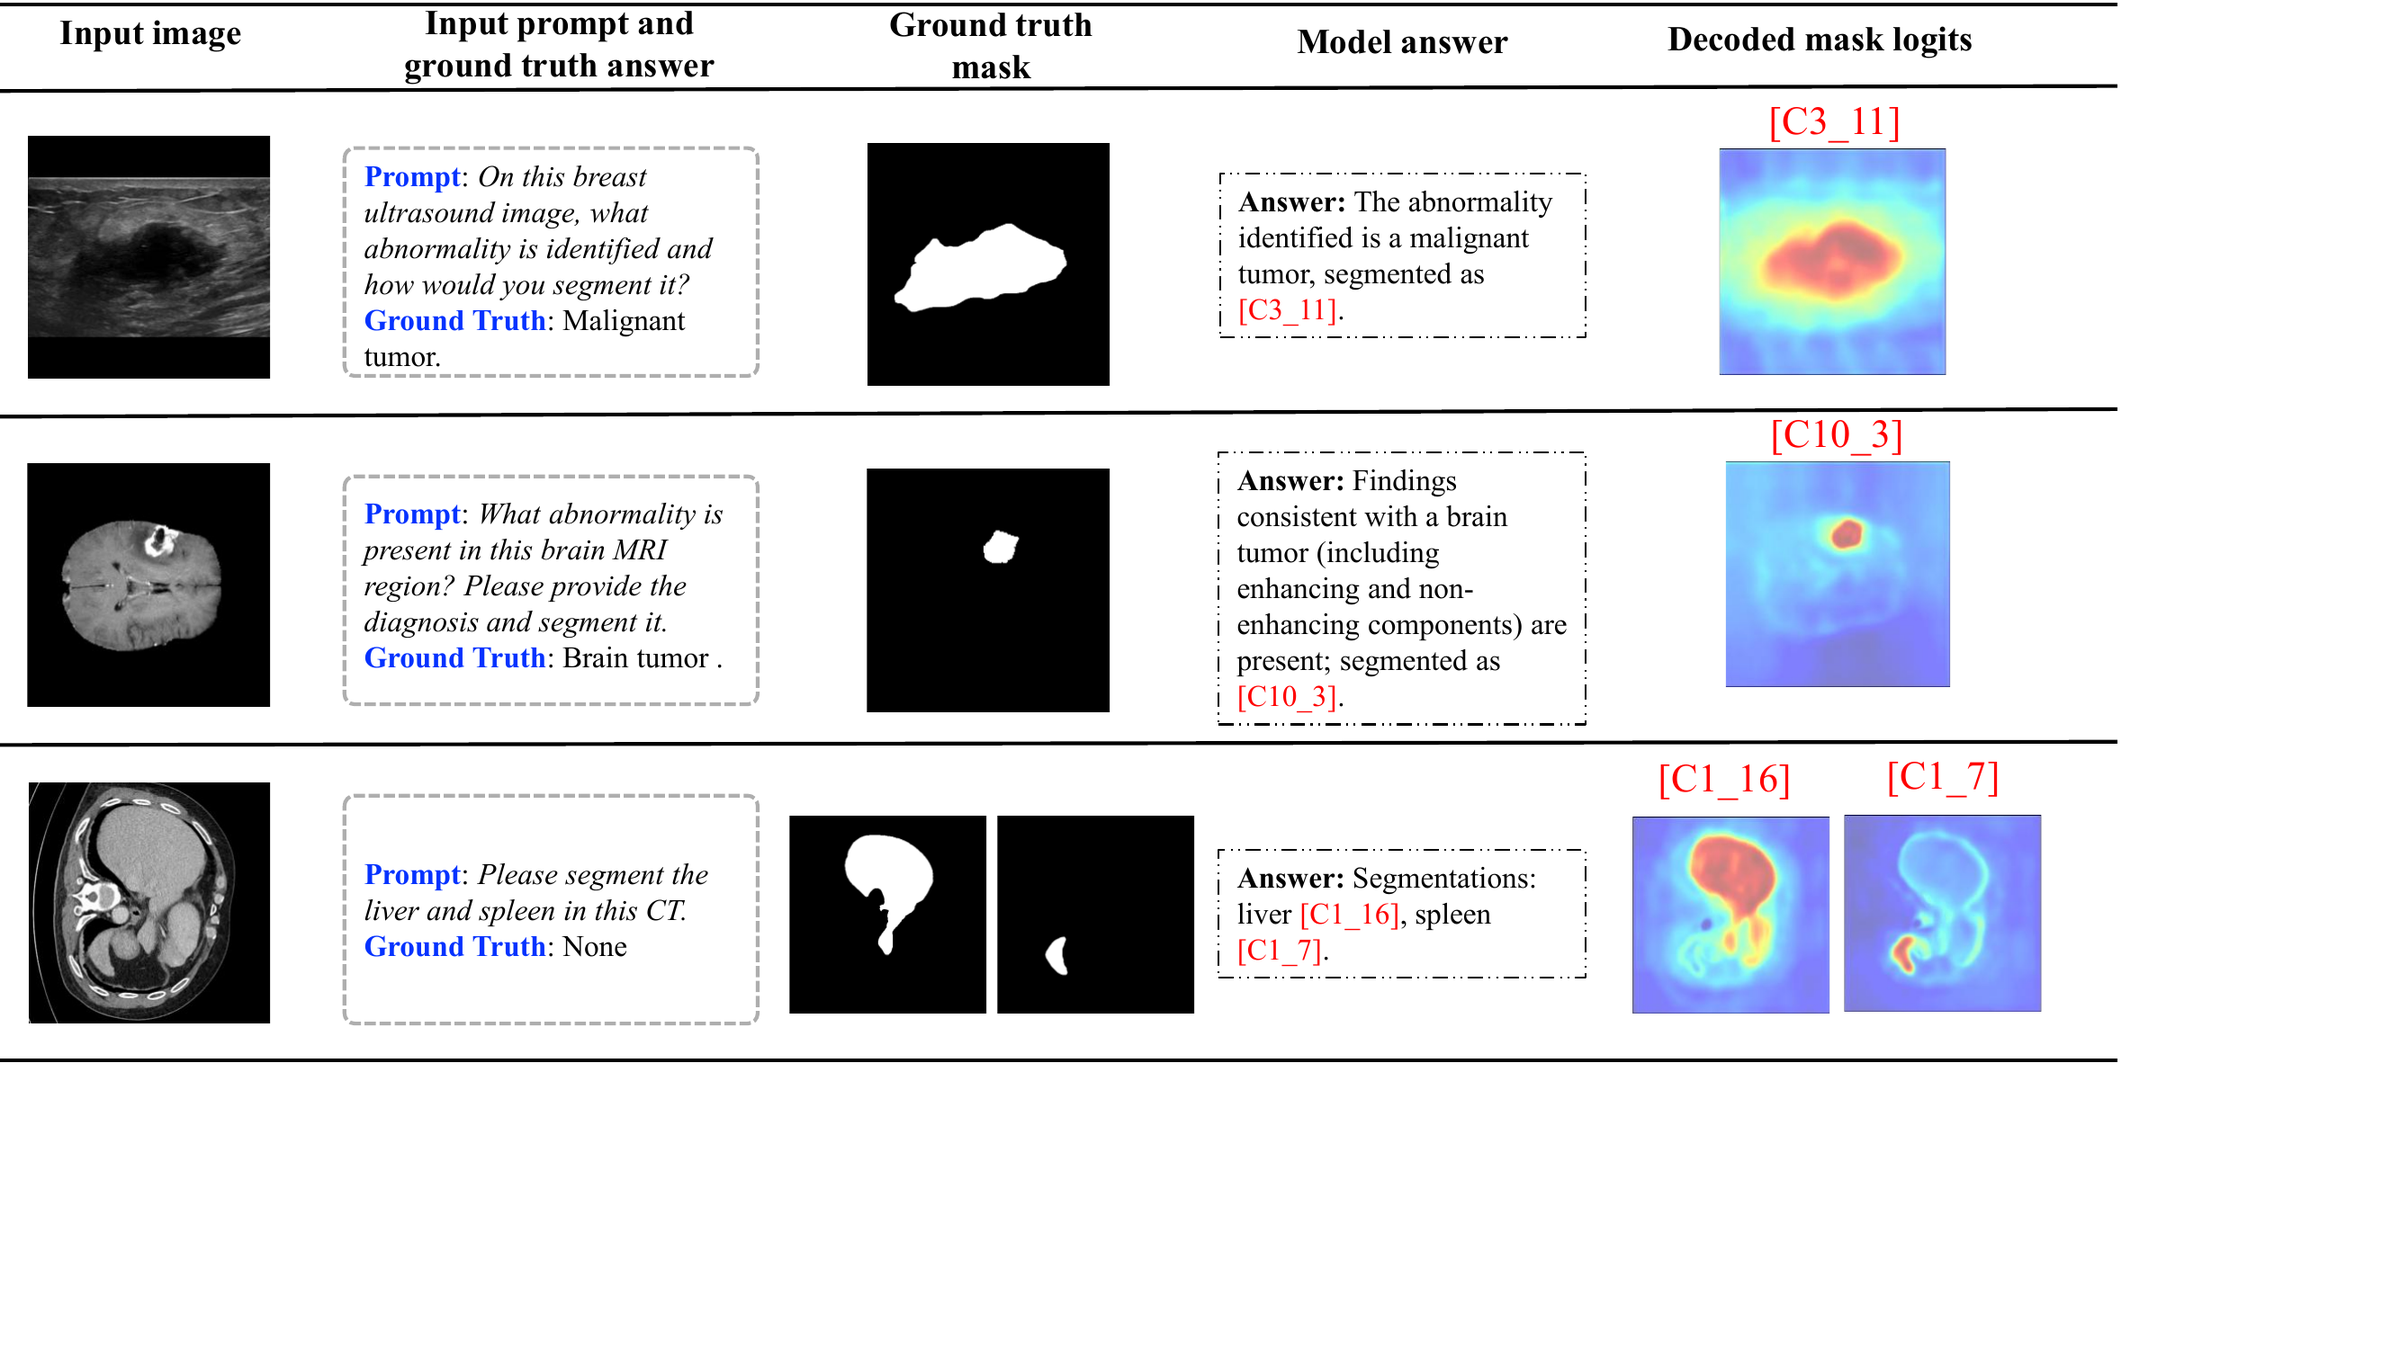
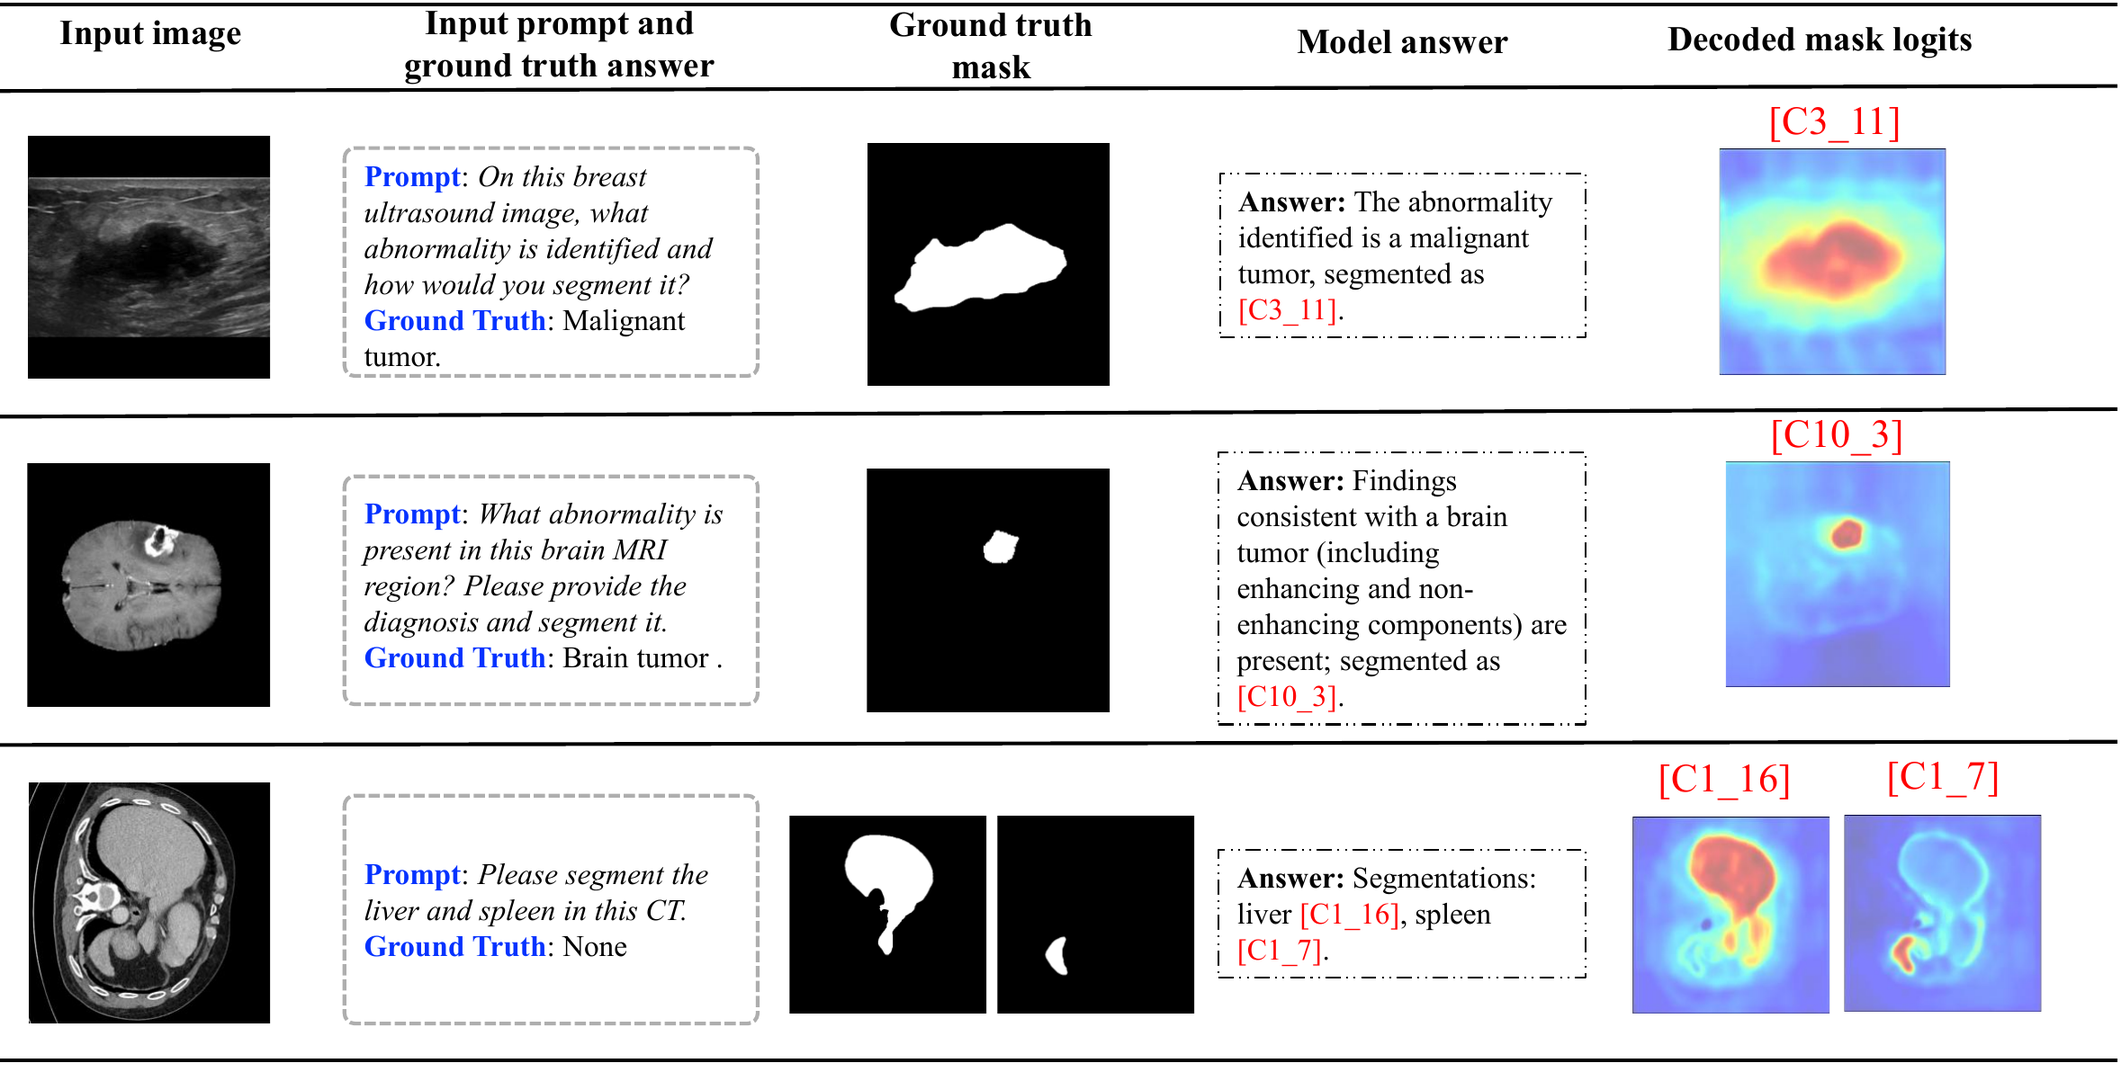
update images

diff --git a/index.html b/index.html
@@ -269,77 +269,210 @@
     </div>
   </section>
 
-  <!-- ========== RESULTS ========== -->
+  <!-- ========== MAIN EXPERIMENT RESULTS ========== -->
   <section class="section alt">
     <div class="container">
-      <h2 class="section-title">Results</h2>
+      <h2 class="section-title">Main Experiment Results</h2>
 
-      <h3 class="sub-title">Medical Visual Comprehension</h3>
+      <!-- ========== Result 1: Visual Comprehension (FULL) ========== -->
+      <h3 class="sub-title">Result 1: Medical Visual Comprehension (Recall / Accuracy)</h3>
       <p>
-        On standard VQA benchmarks (VQA-RAD, SLAKE, PathVQA, MMMU-Med, OmniMedVQA, and
-        DiagSeg-Diagnosis), <span class="brand-inline">MEDSIGHT</span> achieves an average
-        score of <strong>62.3</strong>, surpassing HuatuoGPT-Vision (58.3) despite using
-        only <strong>72K</strong> instruction-tuning samples — roughly
-        <strong>9&times; less</strong> than HuatuoGPT-Vision.
+        On six medical VQA benchmarks (VQA-RAD, SLAKE, PathVQA, MMMU-Med, OmniMedVQA, and
+        the diagnosis subset of DiagSeg), <span class="brand-inline">MEDSIGHT</span>
+        achieves an average score of <strong>62.3</strong>, outperforming the best
+        baseline HuatuoGPT-Vision (58.3) while being fine-tuned with only
+        <strong>72K</strong> instruction-tuning samples (roughly <strong>9&times; less</strong>
+        than HuatuoGPT-Vision). For each VQA dataset we report close-ended
+        (<em>c</em>) accuracy and overall (<em>a</em>) recall.
+        <span class="note-gray">Rows in gray denote models with partial overlap between
+        their training data and the evaluation sets.</span>
+        <strong>Bold</strong> marks the best result among unified models and overall.
       </p>
 
       <div class="table-wrapper">
-        <table class="results-table">
+        <table class="results-table compact">
           <thead>
             <tr>
-              <th>Model</th><th>#Params</th><th>#Data</th>
-              <th>VQA-RAD</th><th>SLAKE</th><th>PathVQA</th>
-              <th>MMMU-Med</th><th>OMVQA</th><th>DiagSeg</th><th>Avg.</th>
+              <th rowspan="2">Type</th>
+              <th rowspan="2">Model</th>
+              <th rowspan="2">#Params</th>
+              <th rowspan="2">#Data</th>
+              <th colspan="2">VQA-RAD&nbsp;&uarr;</th>
+              <th colspan="2">SLAKE&nbsp;&uarr;</th>
+              <th colspan="2">PathVQA&nbsp;&uarr;</th>
+              <th rowspan="2">MMMU-Med&nbsp;&uarr;</th>
+              <th rowspan="2">OMVQA&nbsp;&uarr;</th>
+              <th rowspan="2">DiagSeg-Diag&nbsp;&uarr;</th>
+              <th rowspan="2">Avg.&nbsp;&uarr;</th>
+            </tr>
+            <tr>
+              <th>close</th><th>all</th>
+              <th>close</th><th>all</th>
+              <th>close</th><th>all</th>
             </tr>
           </thead>
           <tbody>
-            <tr><td>LLaVA-Med</td><td>7B</td><td>60K</td><td>48.1</td><td>44.8</td><td>35.7</td><td>30.0</td><td>41.3</td><td>35.3</td><td>46.2</td></tr>
-            <tr><td>HuatuoGPT-Vision</td><td>7B</td><td>647K</td><td>60.0</td><td>60.1</td><td>41.3</td><td>43.3</td><td>66.4</td><td>51.1</td><td>58.3</td></tr>
-            <tr><td>OMG-LLaVA</td><td>7B</td><td>1.2M</td><td>37.6</td><td>39.9</td><td>36.2</td><td>32.7</td><td>18.3</td><td>28.0</td><td>41.0</td></tr>
-            <tr><td>MedPLIB</td><td>14B/7B</td><td>500K</td><td>34.8</td><td>37.4</td><td>18.2</td><td>28.7</td><td>61.9</td><td>13.1</td><td>37.3</td></tr>
+            <tr><td rowspan="14" class="rotate-cell">Comp.<br>only</td>
+                <td>BLIP-2</td><td>6.7B</td><td>&mdash;</td>
+                <td>43.4</td><td>36.8</td><td>41.6</td><td>35.3</td><td>48.5</td><td>28.8</td>
+                <td>27.3</td><td>26.9</td><td>22.3</td><td>34.5</td></tr>
+            <tr><td>LLaVA-v1.5</td><td>7B</td><td>158K</td>
+                <td>51.8</td><td>42.8</td><td>37.1</td><td>37.7</td><td>53.5</td><td>31.4</td>
+                <td>32.7</td><td>44.7</td><td>45.3</td><td>41.9</td></tr>
+            <tr><td>InstructBLIP</td><td>7B</td><td>364K</td>
+                <td>61.0</td><td>44.8</td><td>66.8</td><td>43.3</td><td>56.0</td><td>32.3</td>
+                <td>25.3</td><td>29.0</td><td>35.9</td><td>43.8</td></tr>
+            <tr><td>Yi-VL</td><td>6B</td><td>10K</td>
+                <td>52.6</td><td>42.1</td><td>52.4</td><td>38.4</td><td>54.9</td><td>30.9</td>
+                <td>38.0</td><td>50.2</td><td>33.0</td><td>43.6</td></tr>
+            <tr><td>InternVL2</td><td>8B</td><td>7.3M</td>
+                <td>64.9</td><td>49.0</td><td>66.6</td><td>50.1</td><td>60.0</td><td>31.9</td>
+                <td>43.3</td><td>54.5</td><td>42.3</td><td>51.4</td></tr>
+            <tr><td>Llama-3.2</td><td>11B</td><td>&mdash;</td>
+                <td>68.9</td><td>45.5</td><td>72.4</td><td>52.1</td><td>62.8</td><td>33.6</td>
+                <td>39.3</td><td>63.2</td><td>46.4</td><td>53.8</td></tr>
+            <tr><td>Med-Flamingo</td><td>8.3B</td><td>1.3M</td>
+                <td>58.6</td><td>43.0</td><td>47.0</td><td>25.5</td><td>61.9</td><td>31.3</td>
+                <td>28.7</td><td>34.9</td><td>34.6</td><td>40.6</td></tr>
+            <tr><td>LLaVA-Med</td><td>7B</td><td>60K</td>
+                <td>60.2</td><td>48.1</td><td>58.4</td><td>44.8</td><td>62.3</td><td>35.7</td>
+                <td>30.0</td><td>41.3</td><td>35.3</td><td>46.2</td></tr>
+            <tr><td>HuatuoGPT-Vision</td><td>7B</td><td>647K</td>
+                <td>69.7</td><td>60.0</td><td>69.0</td><td>60.1</td><td>63.6</td><td>41.3</td>
+                <td>43.3</td><td>66.4</td><td>51.1</td><td>58.3</td></tr>
+            <tr class="overlap"><td>Qwen3-VL</td><td>8B</td><td>&mdash;</td>
+                <td>72.8</td><td>53.4</td><td>76.9</td><td>66.1</td><td>66.9</td><td>36.9</td>
+                <td>46.7</td><td>75.3</td><td>44.5</td><td>59.9</td></tr>
+            <tr class="overlap"><td>InternVL3.5</td><td>8B</td><td>16.3M</td>
+                <td>67.7</td><td>48.9</td><td>82.1</td><td>72.2</td><td>67.0</td><td>38.6</td>
+                <td>46.0</td><td>84.5</td><td>44.6</td><td>61.3</td></tr>
+            <tr class="overlap"><td>HealthGPT-M3</td><td>3.8B</td><td>1.5M</td>
+                <td>73.7</td><td>55.9</td><td>74.6</td><td>56.4</td><td>78.7</td><td>39.7</td>
+                <td>43.3</td><td>68.5</td><td>44.1</td><td>59.4</td></tr>
+            <tr class="overlap"><td>HealthGPT-L14</td><td>14B</td><td>1.5M</td>
+                <td>77.7</td><td>58.3</td><td>76.4</td><td>64.5</td><td>85.9</td><td>44.4</td>
+                <td>49.2</td><td>74.4</td><td>51.2</td><td>64.7</td></tr>
+            <tr class="overlap"><td>Lingshu-7B</td><td>7B</td><td>7.1M</td>
+                <td>78.3</td><td>64.5</td><td>77.2</td><td>70.8</td><td>85.0</td><td>55.5</td>
+                <td>60.7</td><td>78.4</td><td>55.4</td><td>69.5</td></tr>
+
+            <tr class="divider"><td colspan="14"></td></tr>
+
+            <tr><td rowspan="4" class="rotate-cell">Unified</td>
+                <td>OMG-LLaVA</td><td>7B</td><td>1.2M</td>
+                <td>56.3</td><td>37.6</td><td>54.6</td><td>39.9</td><td>65.2</td><td>36.2</td>
+                <td>32.7</td><td>18.3</td><td>28.0</td><td>41.0</td></tr>
+            <tr><td>MIMO*</td><td>7B</td><td>&mdash;</td>
+                <td>58.8</td><td>&mdash;</td><td>57.0</td><td>&mdash;</td><td>52.4</td><td>&mdash;</td>
+                <td>&mdash;</td><td>&mdash;</td><td>&mdash;</td><td>&mdash;</td></tr>
+            <tr><td>MedPLIB</td><td>14B/7B</td><td>500K</td>
+                <td>58.3</td><td>34.8</td><td>48.4</td><td>37.4</td><td>35.2</td><td>18.2</td>
+                <td>28.7</td><td>61.9</td><td>13.1</td><td>37.3</td></tr>
             <tr class="ours">
               <td><span class="brand-inline">MEDSIGHT</span> (Ours)</td>
               <td>8B</td><td>72K</td>
-              <td><strong>61.4</strong></td><td><strong>60.2</strong></td><td><strong>42.6</strong></td>
-              <td><strong>51.3</strong></td><td><strong>68.9</strong></td><td><strong>58.9</strong></td>
-              <td><strong>62.3</strong></td>
+              <td><strong>79.9</strong></td><td><strong>61.4</strong></td>
+              <td><strong>70.9</strong></td><td><strong>60.2</strong></td>
+              <td><strong>66.3</strong></td><td><strong>42.6</strong></td>
+              <td><strong>51.3</strong></td><td><strong>68.9</strong></td>
+              <td><strong>58.9</strong></td><td><strong>62.3</strong></td>
             </tr>
           </tbody>
         </table>
       </div>
+      <p class="caption-note">
+        <strong>Table 1.</strong> Comparison of <span class="brand-inline">MEDSIGHT</span>
+        with general/medical LVLMs and unified LVLMs on medical visual comprehension.
+        <em>Comp.-Only</em> denotes models trained solely for visual comprehension;
+        <em>Unified</em> models are trained on both comprehension and segmentation.
+        <span class="note-gray">Gray rows</span> indicate partial overlap between training
+        and evaluation data. *MIMO is evaluated only on the three public VQA splits in
+        the original paper.
+      </p>
 
-      <h3 class="sub-title">Grounded Diagnostic Segmentation (DiagSeg)</h3>
+      <!-- ========== Result 2: DiagSeg (FULL) ========== -->
+      <h3 class="sub-title">Result 2: DiagSeg &mdash; Grounded Diagnostic Segmentation (8 modalities)</h3>
       <p>
-        On the proposed <strong>DiagSeg</strong> benchmark covering 8 medical imaging
-        modalities, <span class="brand-inline">MEDSIGHT</span> achieves a mean Dice of
-        <strong>69.9</strong> for segmentation and <strong>58.9</strong> recall for
-        diagnosis — substantially ahead of the next best model on both axes.
+        On the proposed <strong>DiagSeg</strong> benchmark covering eight medical imaging
+        modalities, <span class="brand-inline">MEDSIGHT</span> attains a mean diagnosis
+        recall of <strong>58.9</strong> and a mean segmentation Dice of
+        <strong>69.9</strong> &mdash; substantially ahead of every baseline on both axes.
       </p>
 
       <div class="table-wrapper">
-        <table class="results-table">
+        <table class="results-table compact">
           <thead>
             <tr>
-              <th>Model</th>
+              <th rowspan="2">Model</th>
+              <th rowspan="2">#Params</th>
+              <th colspan="9" class="group-head">DiagSeg-Diagnosis (Recall) &uarr;</th>
+              <th colspan="9" class="group-head alt-group">DiagSeg-Segmentation (Dice) &uarr;</th>
+            </tr>
+            <tr>
               <th>CT</th><th>MRI</th><th>X-ray</th><th>Path</th>
-              <th>US</th><th>End</th><th>Der</th><th>OCT</th>
-              <th>Avg.</th>
+              <th>US</th><th>End</th><th>Der</th><th>OCT</th><th>Avg.</th>
+              <th>CT</th><th>MRI</th><th>X-ray</th><th>Path</th>
+              <th>US</th><th>End</th><th>Der</th><th>OCT</th><th>Avg.</th>
             </tr>
           </thead>
           <tbody>
-            <tr><td>LISA</td><td>14.1</td><td>15.7</td><td>9.8</td><td>34.0</td><td>45.2</td><td>39.3</td><td>28.9</td><td>62.6</td><td>31.8</td></tr>
-            <tr><td>GLaMM</td><td>1.6</td><td>4.5</td><td>16.6</td><td>22.8</td><td>9.9</td><td>5.6</td><td>26.3</td><td>0.8</td><td>11.0</td></tr>
-            <tr><td>OMG-LLaVA</td><td>0.9</td><td>5.1</td><td>15.5</td><td>20.7</td><td>11.7</td><td>7.7</td><td>25.9</td><td>1.0</td><td>11.1</td></tr>
-            <tr><td>MedPLIB</td><td>3.8</td><td>47.1</td><td>29.8</td><td>19.3</td><td>49.9</td><td>16.6</td><td>80.4</td><td>7.2</td><td>31.8</td></tr>
+            <tr><td>LISA</td><td>7B</td>
+              <td>11.8</td><td>7.9</td><td>3.8</td><td>21.6</td><td>5.9</td><td>2.9</td><td>33.4</td><td>27.8</td><td>14.1</td>
+              <td>15.7</td><td>9.8</td><td>34.0</td><td>45.2</td><td>39.3</td><td>28.9</td><td>62.6</td><td>19.1</td><td>31.8</td>
+            </tr>
+            <tr><td>LISA++</td><td>7B</td>
+              <td>9.3</td><td>19.6</td><td>5.1</td><td>16.7</td><td>6.2</td><td>19.4</td><td>35.7</td><td>16.7</td><td>15.1</td>
+              <td>1.9</td><td>12.5</td><td>21.6</td><td>26.9</td><td>8.9</td><td>6.8</td><td>31.2</td><td>0.7</td><td>13.8</td>
+            </tr>
+            <tr><td>LaSagnA</td><td>7B</td>
+              <td>3.6</td><td>4.1</td><td>1.0</td><td>8.2</td><td>5.1</td><td>0.0</td><td>14.8</td><td>2.8</td><td>4.4</td>
+              <td>9.3</td><td>8.7</td><td>18.2</td><td>30.0</td><td>14.1</td><td>18.0</td><td>34.9</td><td>12.6</td><td>18.2</td>
+            </tr>
+            <tr><td>GLaMM</td><td>7B</td>
+              <td>11.4</td><td>20.6</td><td>6.9</td><td>16.6</td><td>38.9</td><td>10.6</td><td>22.3</td><td>3.1</td><td>16.9</td>
+              <td>1.6</td><td>4.5</td><td>16.6</td><td>22.8</td><td>9.9</td><td>5.6</td><td>26.3</td><td>0.8</td><td>11.0</td>
+            </tr>
+            <tr><td>OMG-LLaVA</td><td>7B</td>
+              <td>12.7</td><td>23.0</td><td>10.7</td><td>17.0</td><td>34.6</td><td>5.5</td><td>26.9</td><td>15.7</td><td>18.3</td>
+              <td>0.9</td><td>5.1</td><td>15.5</td><td>20.7</td><td>11.7</td><td>7.7</td><td>25.9</td><td>1.0</td><td>11.1</td>
+            </tr>
+            <tr><td>MedPLIB</td><td>14B/7B</td>
+              <td>4.5</td><td>18.5</td><td>15.3</td><td>5.3</td><td>71.9</td><td>22.4</td><td>29.0</td><td>0.4</td><td>13.1</td>
+              <td>3.8</td><td>47.1</td><td>29.8</td><td>19.3</td><td>49.9</td><td>16.6</td><td>80.4</td><td>7.2</td><td>31.8</td>
+            </tr>
             <tr class="ours">
-              <td><span class="brand-inline">MEDSIGHT</span> (Ours)</td>
+              <td><span class="brand-inline">MEDSIGHT</span> (Ours)</td><td>8B</td>
+              <td><strong>54.6</strong></td><td><strong>54.4</strong></td><td><strong>59.1</strong></td>
+              <td><strong>80.1</strong></td><td>51.7</td><td><strong>62.4</strong></td>
+              <td><strong>40.2</strong></td><td><strong>69.3</strong></td><td><strong>58.9</strong></td>
               <td><strong>65.8</strong></td><td><strong>82.3</strong></td><td><strong>57.7</strong></td>
               <td><strong>52.9</strong></td><td><strong>65.8</strong></td><td><strong>70.0</strong></td>
-              <td><strong>87.7</strong></td><td><strong>55.6</strong></td>
-              <td><strong>69.9</strong></td>
+              <td><strong>87.7</strong></td><td><strong>55.6</strong></td><td><strong>69.9</strong></td>
             </tr>
           </tbody>
         </table>
+      </div>
+      <p class="caption-note">
+        <strong>Table 2.</strong> Mean Recall and mean Dice on DiagSeg.
+        <span class="brand-inline">MEDSIGHT</span> leads on both diagnosis and
+        segmentation across all eight modalities, exceeding the best baselines by
+        <strong>+40.6 (Recall)</strong> and <strong>+38.1 (Dice)</strong> on average.
+        Modality abbreviations: CT, MRI, X-ray, Path (pathology), US (ultrasound),
+        End (endoscopy), Der (dermoscopy), OCT.
+      </p>
+
+      <!-- Pointer to paper for remaining experiments -->
+      <div class="callout">
+        <div class="callout-icon"><i class="fas fa-book-open"></i></div>
+        <div>
+          <strong>More experiments in the paper.</strong>
+          We additionally report <em>Text-Prompted Medical Image Segmentation</em>
+          (MeCoVQA-G across 8 modalities, including OOD cases), a full
+          <em>Ablation Study</em> over each component and training stage, and
+          analyses of the learned codebook and backbone variants.
+          Please refer to the <a href="static/pdfs/medsight.pdf">paper</a>
+          for the full results, additional baselines, and qualitative comparisons.
+        </div>
       </div>
     </div>
   </section>

diff --git a/static/css/index.css b/static/css/index.css
@@ -382,6 +382,88 @@ figcaption {
   background: #fafbfd;
 }
 
+/* Compact dense table (used for main experiment tables) */
+.results-table.compact { min-width: 980px; font-size: 13.5px; }
+.results-table.compact th,
+.results-table.compact td { padding: 6px 8px; }
+.results-table.compact thead th {
+  font-size: 13px;
+}
+
+/* Cell that visually groups multiple rows on the left */
+.results-table .rotate-cell {
+  background: #f3f5f9;
+  font-weight: 600;
+  color: var(--brand-dark);
+  text-align: center;
+  font-size: 13px;
+  border-right: 1px solid var(--border);
+}
+
+/* Sub-group header above the column blocks */
+.results-table .group-head {
+  background: #d8e6f7;
+  color: var(--brand-dark);
+  font-weight: 700;
+  letter-spacing: 0.02em;
+  border-bottom: 1px solid var(--border);
+}
+.results-table .group-head.alt-group { background: #e9defc; }
+
+/* Rows whose training data overlaps eval sets (rendered subtly) */
+.results-table tr.overlap td {
+  background: #f5f5f5;
+  color: #6a6a6a;
+  font-style: italic;
+}
+.results-table tr.overlap td:first-child { font-style: italic; }
+
+/* Thin divider row between groups */
+.results-table tr.divider td {
+  padding: 0;
+  height: 4px;
+  background: var(--bg-alt);
+  border-bottom: 2px solid var(--border);
+}
+
+/* Italic gray inline note (used in body text + captions) */
+.note-gray {
+  color: #6a6a6a;
+  font-style: italic;
+}
+
+/* Captions below tables */
+.caption-note {
+  font-size: 14.5px;
+  color: var(--text-soft);
+  line-height: 1.55;
+  margin-top: 10px;
+  text-align: left;
+}
+
+/* Callout box pointing readers to the paper */
+.callout {
+  display: flex;
+  gap: 14px;
+  align-items: flex-start;
+  background: var(--brand-light);
+  border-left: 4px solid var(--brand);
+  border-radius: var(--radius);
+  padding: 18px 22px;
+  margin: 28px 0 0 0;
+  color: var(--text);
+  font-size: 15.5px;
+  line-height: 1.6;
+}
+.callout-icon {
+  flex: 0 0 auto;
+  color: var(--brand);
+  font-size: 22px;
+  padding-top: 2px;
+}
+.callout strong { color: var(--brand-dark); }
+.callout em { font-style: italic; }
+
 /* ===================== BIBTEX ===================== */
 .bibtex {
   background: #1f2937;